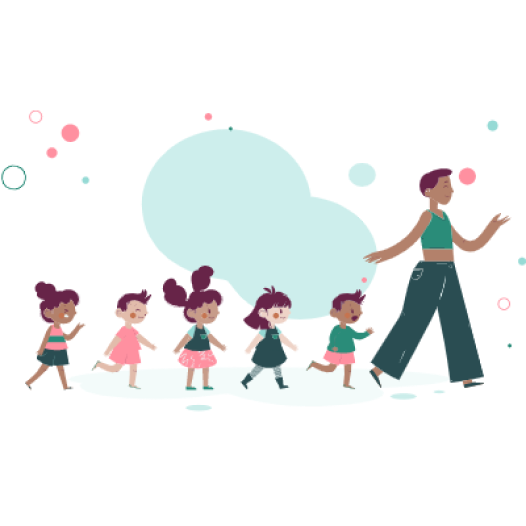
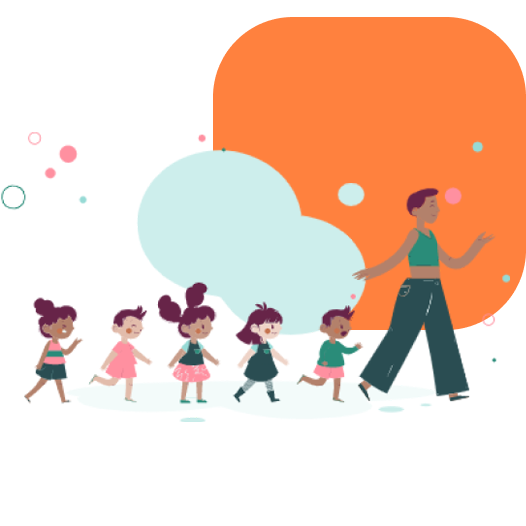
exemplos de doacoes responsivo com @media, faltando implementar função de scroll para o lado

diff --git a/css/home.css b/css/home.css
@@ -631,7 +631,57 @@ a.active,a:hover {
         margin-top: 18.599vw;
         align-items: center;
     }
+    .home2 {
+        margin-bottom: 0%;
+        padding-bottom: 0%;     
+    }
+    .boxes {
+        width: 150%;
+        margin-top: 8.937vw;
+    }
+    .azul {
+        width: 200%;
+        height: 135.502vw;
+    }
+    .alunos {
+        width: 71.981vw;
+        height: 80.676vw;
+        justify-content: center;
+        align-items: center;
+        color: #2C2C2C;
+                
+    }
+    .alunos h4 {
+        margin-top: 2.899vw;
+        border: 1px dotted pink;
+        width: 98%;
+        font-size: 5.797vw;
+        color: #2C2C2C;
+        
 
+    }
+    .alunos p {
+        margin-top: 1vw;
+        font-size: 3.865vw;
+        line-height: 150%;
+        /*width: 60.870vw;*/
+        padding: 5%;
+        border: 1px dotted;
+        justify-self: center;
+    }
+    .alunos img {
+        width: 24.155vw;
+        height: 24.155vw;
+        
+    }
+    .azul h1 {
+        font-size: 7.246vw;
+        margin-top:7.729vw;
+        padding-top: 0%;
+        width: 98vw;
+        text-align: center;
+        border: 1px dotted pink;
+    }
 
 
 

diff --git a/home.html b/home.html
@@ -96,7 +96,7 @@
     </div>
     <main>
         <div id="home2">
-            <article>
+            <article class="doacoes">
                 <div class='margemfix flex-container'>
                     <div class='artigoh'>
                         <h1> Doações transparentes</h1>
@@ -106,7 +106,7 @@
                     </div>
                 </div>
 
-                <div class="">
+                <div class="doacoes">
                     <div class="flex-container around intrucao mobilcol">
                         <div class="passo">
                             <img src="imgs/Caixa.png" class="caixa1">
